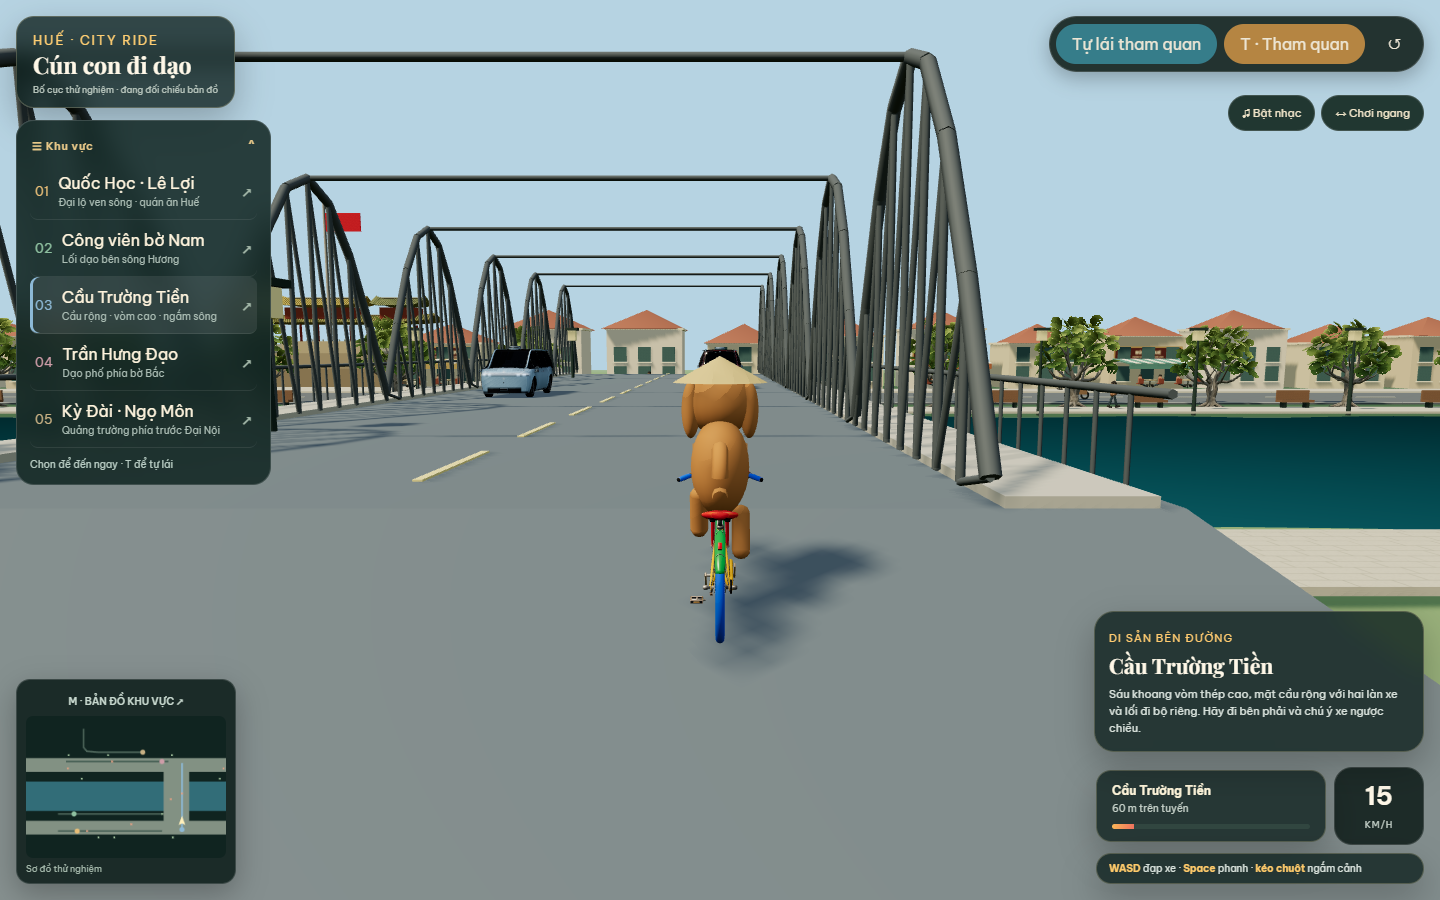
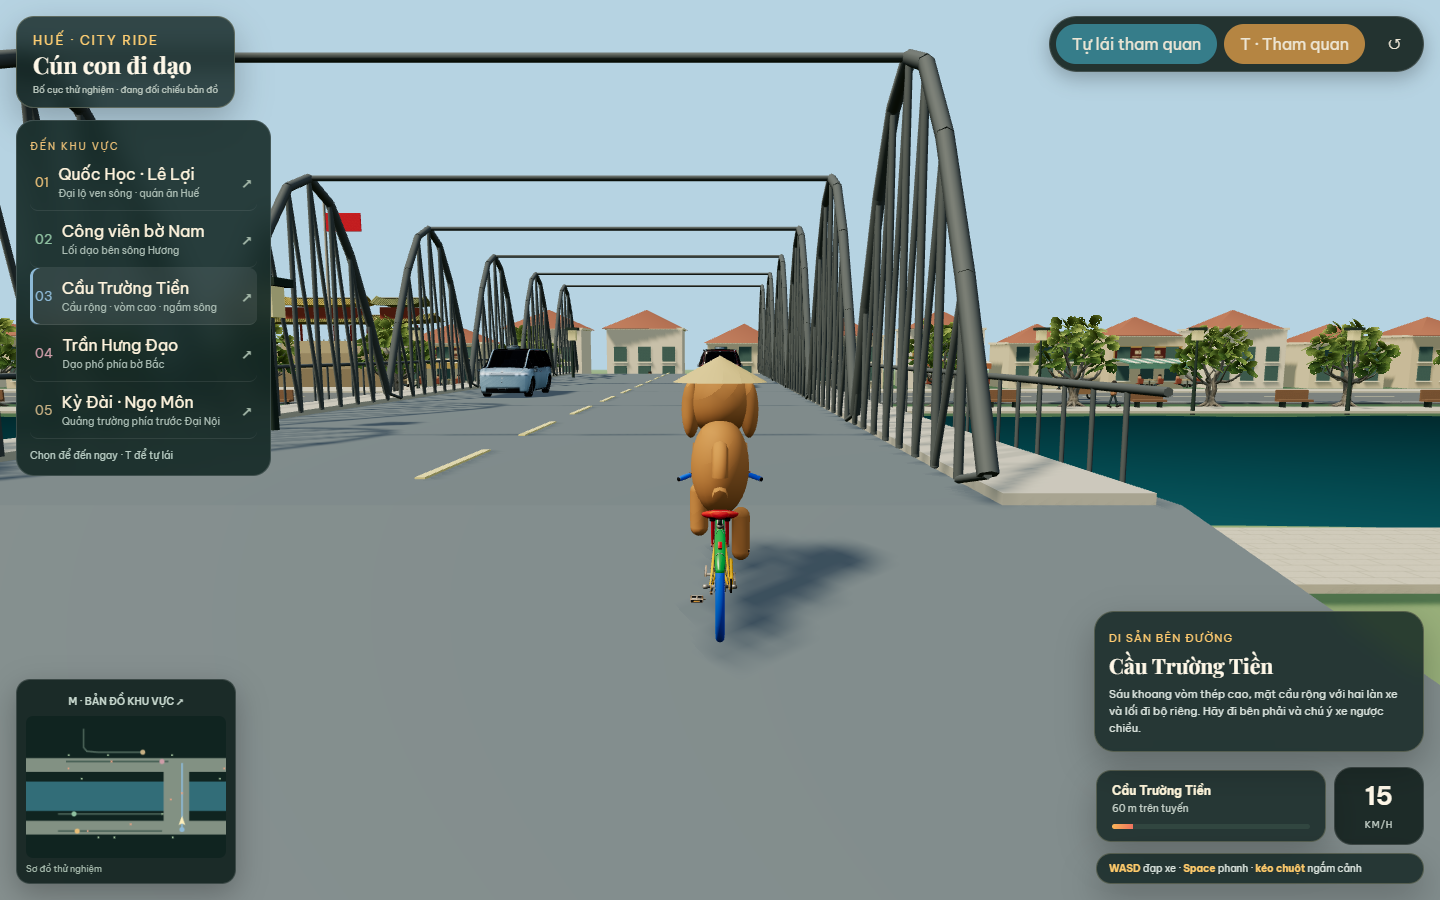
refactor: remove audio and mobile UI components
- Remove CityAudio module and related UI elements
- Revert viewport meta settings
- Update dev server configuration to host on all interfaces

diff --git a/src/styles.css b/src/styles.css
@@ -1,7 +1,6 @@
 @import url('https://fonts.googleapis.com/css2?family=Be+Vietnam+Pro:wght@400;600;700&family=Playfair+Display:wght@700&display=swap');
 
 :root { color-scheme: dark; font-family: 'Be Vietnam Pro', sans-serif; }
-[hidden]{display:none!important}
 #collision-toast{position:fixed;top:110px;left:50%;transform:translateX(-50%);z-index:15;width:min(440px,calc(100vw - 30px));padding:17px 20px;background:#562e24ee;border:1px solid #f1b772;border-radius:17px;box-shadow:0 10px 45px #4118;pointer-events:none}#collision-toast[hidden]{display:none}#collision-toast strong{color:#ffda9e;font-size:17px}#collision-toast p{font-size:13px;line-height:1.6;color:#fff0dd;margin:8px 0}#collision-toast span{font-size:10px;color:#e8c09c}
 #scene-loading{position:fixed;inset:0;background:#102522ee;z-index:20;display:grid;place-items:center;color:#f6d59b;font-size:15px}#scene-loading[hidden],#asset-notice[hidden]{display:none}#asset-notice{position:fixed;top:80px;right:20px;padding:12px;background:#493c26;color:#fff1ce;z-index:10;font-size:11px;border-radius:12px}
 * { box-sizing: border-box; }
@@ -42,11 +41,3 @@ button { font: inherit; }
 
 .hud{padding:16px;gap:12px}.brand{padding:12px 16px}.brand h1{font-size:23px}.map-note{font-size:9px;color:#bcc9c0;margin-top:7px}.tour-toolbar{display:flex;align-items:center;gap:7px;pointer-events:auto;background:#15231fe8;border:1px solid #ffffff25;border-radius:30px;padding:6px;box-shadow:0 6px 20px #0004}.tour-toolbar button{border:0;background:transparent;color:#ede6d5;border-radius:24px;padding:10px 16px;cursor:pointer}.tour-toolbar .mode-pill{background:#367d8a}.tour-toolbar button.active{background:#b58542}.destinations{width:255px;margin-top:0;align-self:start;padding:13px}.destinations button{display:flex;align-items:center;gap:9px;border-radius:8px;padding:10px 5px}.destinations button>span{flex:1}.destinations small{margin:0;color:var(--district-color)}.destinations em{display:block;font-size:10px;font-style:normal;color:#acbeb5;margin-top:3px}.destinations b{font-size:14px;color:#a4b8a9}.destinations button[aria-pressed=true]{background:#ffffff15;box-shadow:inset 3px 0 var(--district-color)}.bottom{align-items:end}.map-panel{width:220px;background:#12231feb;border:1px solid #ffffff25;pointer-events:auto;border-radius:14px;padding:9px;box-shadow:0 10px 30px #0004}.map-panel button{border:0;background:none;color:#c7d8ce;font:600 10px 'Be Vietnam Pro',sans-serif;width:100%;padding:0 0 8px;cursor:pointer}.map-panel canvas{display:block;width:100%;height:auto;border-radius:7px}.map-panel>span{display:block;font-size:9px;color:#aabeb0;margin-top:5px}.map-panel.expanded{width:min(480px,60vw)}.ride-panel{display:grid;grid-template-columns:1fr auto;gap:8px;align-items:center}.ride-panel .status{min-width:230px;font-size:12px}.ride-panel .status>div:first-of-type{font-size:10px;color:#c5d0c8;margin-top:4px}.speed{border:1px solid #ffffff25;background:#15231feb;border-radius:18px;padding:12px 18px;min-width:90px;text-align:center}.speed strong{font-size:25px;display:block}.speed span{font-size:9px;letter-spacing:.1em;color:#c5d1c9}.ride-panel .guide{grid-column:1/-1;padding:8px 12px;font-size:10px}.card{left:auto;right:16px;bottom:148px;transform:translateY(10px);width:330px;padding:14px}.card.visible{transform:translateY(0)}.card h2{font-size:21px}.card p{font-size:11px}.mobile-controls button{touch-action:none}
 @media(max-width:760px){.hud{padding:9px;gap:8px}.brand{padding:9px 11px;max-width:175px}.brand small{font-size:9px}.brand h1{font-size:17px}.map-note{font-size:8px;max-width:165px}.tour-toolbar{gap:2px;padding:4px}.tour-toolbar button{padding:9px 8px;font-size:10px;white-space:nowrap}.destinations{width:190px;padding:9px}.destinations button{font-size:11px;padding:8px 4px}.destinations em{display:none}.map-panel{width:115px}.map-panel.expanded{position:absolute;bottom:155px;left:9px;width:260px}.ride-panel{gap:5px;max-width:123px}.ride-panel .status{min-width:0;padding:9px;grid-column:1/-1;font-size:10px}.speed{grid-column:2;padding:7px 10px;min-width:60px}.speed strong{font-size:20px}.mobile-controls{position:absolute;bottom:10px;left:50%;transform:translateX(-50%);grid-template-columns:repeat(3,40px);gap:4px}.mobile-controls button{width:40px;height:40px;font-size:15px}.card{width:200px;bottom:158px;right:9px;padding:10px}.card p{display:none}.card h2{font-size:17px;margin:4px 0}.card span{font-size:9px}}
-
-.utility-toolbar{position:absolute;top:95px;right:16px;pointer-events:auto;z-index:8;width:235px}.utility-buttons{display:flex;gap:6px;justify-content:flex-end}.utility-buttons button{border:1px solid #ffffff25;border-radius:18px;background:#132820e8;color:#f1e5c9;padding:10px 13px;font-size:11px;cursor:pointer}.utility-buttons button[aria-pressed=true]{background:#76613b}.utility-buttons button:disabled{opacity:.6}#sound-settings{margin-top:7px;padding:12px;background:#132820ee;border:1px solid #ffffff25;border-radius:13px}#sound-settings label{font-size:11px;display:flex;align-items:center;gap:8px}#audio-volume{min-width:0;width:125px;accent-color:#d2b77b}#sound-location{display:block;font-size:9px;color:#bdcdbd;margin-top:8px}#audio-status{display:block;font-size:10px;line-height:1.5;color:#f2d398;margin-top:4px}#orientation-hint{position:fixed;z-index:25;bottom:22px;left:50%;transform:translateX(-50%);width:min(420px,calc(100vw - 24px));padding:16px;background:#142a26f5;border:1px solid #e4bd7c88;border-radius:17px;box-shadow:0 10px 50px #0008}#orientation-hint p{font-size:13px;line-height:1.6;margin:0 0 12px}#orientation-hint button{border:0;border-radius:16px;padding:8px 16px;background:#a68b55;color:#fff9e9;cursor:pointer}#toggle-districts{border:0;font-size:11px;letter-spacing:.06em;padding:4px 2px 10px;font-weight:600;color:#e9c989;justify-content:space-between}#toggle-districts span{flex:0}#toggle-districts[aria-expanded=false]{padding-bottom:4px}#toggle-districts[aria-expanded=true] span{transform:rotate(180deg)}#district-list{max-height:55dvh;overflow:auto;overscroll-behavior:contain}
-@media(max-width:760px),(max-height:500px){
-  .destinations{position:absolute;left:9px;top:105px;width:145px;padding:10px;z-index:10}.destinations:has(#toggle-districts[aria-expanded=true]){width:215px}#toggle-districts{min-height:26px;padding:2px;font-size:11px}.destinations #district-list{max-height:calc(100dvh - 280px);margin-top:7px}.destinations button[data-district]{min-height:42px;padding:9px 4px;font-size:11px}.destinations em,.destinations p{display:none}.utility-toolbar{top:61px;right:9px;width:178px}.utility-buttons{gap:5px}.utility-buttons button{padding:9px 8px;font-size:10px;white-space:nowrap}#sound-settings{padding:9px}#sound-settings label{font-size:10px}#audio-volume{width:95px}.hud{padding-bottom:max(10px,env(safe-area-inset-bottom))}.mobile-controls{bottom:max(10px,env(safe-area-inset-bottom))}
-}
-@media(orientation:landscape) and (max-height:500px){
-  .hud{padding:8px 12px}.brand{padding:8px 11px;max-width:200px}.brand small,.brand .map-note{display:none}.brand h1{font-size:18px}.tour-toolbar button{padding:9px 13px;font-size:11px}.utility-toolbar{top:59px;right:12px;width:205px}.destinations{top:59px;left:12px;width:145px}.destinations #district-list{max-height:calc(100dvh - 125px)}.destinations:has(#toggle-districts[aria-expanded=true]){width:235px}.map-panel{width:128px}.map-panel.expanded{position:absolute;left:12px;bottom:12px;width:280px}.map-panel>span{display:none}.ride-panel{position:absolute;right:170px;bottom:12px;max-width:210px;grid-template-columns:1fr auto;gap:6px}.ride-panel .status{min-width:130px;font-size:10px;padding:10px;grid-column:auto}.ride-panel .guide{display:none}.speed{padding:8px 10px;min-width:60px;grid-column:auto}.speed strong{font-size:21px}.mobile-controls{display:grid;position:absolute;left:auto;right:16px;bottom:max(12px,env(safe-area-inset-bottom));transform:none;grid-template-columns:repeat(3,40px);gap:4px}.mobile-controls button{width:40px;height:40px;font-size:16px}.mobile-controls [data-key="w"]{grid-column:2}.mobile-controls [data-key="a"]{grid-column:1}.mobile-controls [data-key="s"]{grid-column:2}.mobile-controls [data-key="d"]{grid-column:3}.card{bottom:110px;right:16px;width:230px;padding:10px}.card p{display:none}.card h2{font-size:17px}.card span{font-size:9px}#collision-toast{top:65px;padding:12px 16px;width:min(380px,calc(100vw - 30px))}#collision-toast strong{font-size:14px}#collision-toast p{font-size:11px}#orientation-hint{bottom:12px}
-}

diff --git a/src/main.js b/src/main.js
@@ -1,7 +1,6 @@
 import './styles.css';
 import { CityGame as Game } from './core/CityGame.js';
 import { districts } from './routes/districts.js';
-import {initializeMobileUI,initializeAudioUI} from './ui/MobileUI.js';
 
 document.querySelector('#app').innerHTML = `
   <canvas id="game"></canvas>
@@ -12,15 +11,13 @@ document.querySelector('#app').innerHTML = `
       <div class="brand"><small>Huế · City Ride</small><h1>Cún con đi dạo</h1><div class="map-note">Bố cục thử nghiệm · đang đối chiếu bản đồ</div></div>
       <div class="tour-toolbar"><button id="free-roam" class="mode-pill"><span id="mode-label">Đạp tự do</span></button><button id="autopilot">T · Tham quan</button><button id="reset" title="Về đầu khu vực [R]">↺</button></div>
     </div>
-    <nav class="destinations" aria-label="Chọn khu vực"><button id="toggle-districts" aria-expanded="true" aria-controls="district-list">☰ Khu vực <span aria-hidden="true">⌄</span></button><div id="district-list">${districts.map((p,i)=>`<button data-district="${p.id}" aria-pressed="false" style="--district-color:${p.color}"><small>0${i+1}</small><span>${p.title}<em>${p.subtitle}</em></span><b>↗</b></button>`).join('')}<p>Chọn để đến ngay · T để tự lái</p></div></nav>
-    <div class="utility-toolbar"><div class="utility-buttons"><button id="audio-toggle" aria-pressed="false">♫ Bật nhạc</button><button id="landscape-toggle" aria-pressed="false">↔ Chơi ngang</button></div><div id="sound-settings" hidden><label>Âm lượng <input id="audio-volume" type="range" min="0" max="100" value="45" aria-label="Âm lượng game"></label><span id="sound-location">Giai điệu bên sông Hương</span></div><span id="audio-status" role="status"></span></div>
+    <nav class="destinations" aria-label="Chọn khu vực"><span>ĐẾN KHU VỰC</span>${districts.map((p,i)=>`<button data-district="${p.id}" aria-pressed="false" style="--district-color:${p.color}"><small>0${i+1}</small><span>${p.title}<em>${p.subtitle}</em></span><b>↗</b></button>`).join('')}<p>Chọn để đến ngay · T để tự lái</p></nav>
     <div class="bottom">
       <section class="map-panel" id="map-panel"><button id="expand-map" title="Mở rộng bản đồ [M]">M · BẢN ĐỒ KHU VỰC ↗</button><canvas id="minimap" width="240" height="170" aria-label="Sơ đồ tuyến và vị trí xe"></canvas><span>Sơ đồ thử nghiệm</span></section>
       <div class="mobile-controls"><button data-key="w" aria-label="Đạp tới">▲</button><button data-key="a" aria-label="Rẽ trái">◀</button><button data-key="s" aria-label="Lùi">▼</button><button data-key="d" aria-label="Rẽ phải">▶</button><button data-key=" " aria-label="Phanh">■</button></div>
       <div class="ride-panel"><div class="status"><strong id="destination">Quốc Học · Lê Lợi</strong><div id="distance">Tự do khám phá</div><div class="progress"><i id="progress"></i></div></div><div class="speed"><strong id="speed">0</strong><span>KM/H</span></div><div class="guide"><b>WASD</b> đạp xe · <b>Space</b> phanh · <b>kéo chuột</b> ngắm cảnh</div></div>
     </div>
   </div>
-  <aside id="orientation-hint" role="status" hidden><p id="orientation-message"></p><button id="dismiss-orientation">Đã hiểu</button></aside>
   <article class="card" id="landmark-card"><span>Di sản bên đường</span><h2></h2><p></p></article>`;
 
 export const game = new Game(document.querySelector('#game'));
@@ -30,4 +27,3 @@ document.querySelector('#free-roam').addEventListener('click', () => {game.auto=
 document.querySelector('#reset').addEventListener('click', () => game.reset());
 document.querySelectorAll('[data-district]').forEach(button=>button.addEventListener('click',()=>game.travelTo(button.dataset.district)));
 document.querySelector('#expand-map').addEventListener('click',()=>document.querySelector('#map-panel').classList.toggle('expanded'));
-initializeMobileUI();initializeAudioUI(game.audio);

diff --git a/src/core/CityGame.js b/src/core/CityGame.js
@@ -6,11 +6,10 @@ import {districts,getDistrict} from '../routes/districts.js';
 import {damp,wrapAngle} from '../vehicle/BicycleMotion.js';
 import {TrafficSystem} from '../traffic/TrafficSystem.js';
 import {CITY,BRIDGE} from '../world/cityLayout.js';
-import {CityAudio} from '../audio/CityAudio.js';
 
 export class CityGame {
   constructor(canvas){
-    this.audio=new CityAudio();this.scene=new THREE.Scene();this.camera=new THREE.PerspectiveCamera(57,innerWidth/innerHeight,.1,450);
+    this.scene=new THREE.Scene();this.camera=new THREE.PerspectiveCamera(57,innerWidth/innerHeight,.1,450);
     this.renderer=new THREE.WebGLRenderer({canvas,antialias:true});this.renderer.setPixelRatio(Math.min(devicePixelRatio,1.6));this.renderer.setSize(innerWidth,innerHeight);
     this.renderer.toneMapping=THREE.ACESFilmicToneMapping;this.renderer.toneMappingExposure=1.05;this.renderer.shadowMap.enabled=true;this.renderer.shadowMap.type=THREE.PCFSoftShadowMap;
     this.input=new InputController(canvas);this.world=new HueWorld(this.scene);this.world.build();this.scene.traverse(object=>{if(object.isSprite)object.visible=false;});this.bike=new TouringBike();this.scene.add(this.bike);this.traffic=new TrafficSystem(this.scene,this.world);this.collisionCooldown=0;this.stun=0;this.crashCount=0;this.noticeTime=0;
@@ -65,12 +64,11 @@ export class CityGame {
     const label=actor.type==='car'?'ô tô':actor.type==='scooter'?'xe máy':'người đi bộ';const headOn=Math.cos(this.bike.motion.heading-actor.heading)<-.4;
     document.querySelector('#collision-message').textContent=`${headOn?'Bạn đã đi đối đầu và va chạm với':'Bạn vừa va chạm với'} ${label}. Hãy cẩn thận hơn, đi bên phải, giảm tốc và quan sát phía trước!`;
     document.querySelector('#collision-toast').hidden=false;
-    this.audio.collision();
   }
   frame(){
     const dt=Math.min(this.clock.getDelta(),.1);this.elapsed+=dt;this.accumulator+=dt;
     while(this.accumulator>=1/120){this.step(1/120);this.accumulator-=1/120;}
-    this.world.update(this.elapsed);if(this.impact.visible){const age=1-this.stun;this.impact.scale.setScalar(1+age*1.4);this.impact.children.forEach(mesh=>mesh.material.opacity=Math.max(0,1-age));if(this.stun===0)this.impact.visible=false;}this.updateCamera(dt);this.audio.update(this.bike,this.traffic.actors,this.cameraYaw+this.input.drag.yaw);this.updateHud();this.drawMap();this.renderer.render(this.scene,this.camera);
+    this.world.update(this.elapsed);if(this.impact.visible){const age=1-this.stun;this.impact.scale.setScalar(1+age*1.4);this.impact.children.forEach(mesh=>mesh.material.opacity=Math.max(0,1-age));if(this.stun===0)this.impact.visible=false;}this.updateCamera(dt);this.updateHud();this.drawMap();this.renderer.render(this.scene,this.camera);
   }
   updateCamera(dt){
     this.cameraYaw+=wrapAngle(this.bike.motion.heading-this.cameraYaw)*(1-Math.exp(-7.5*dt));
@@ -82,7 +80,6 @@ export class CityGame {
   }
   updateHud(){
     this.hud.district.textContent=this.district.title;this.hud.speed.textContent=Math.round(Math.abs(this.bike.motion.speed)*3.6);this.hud.distance.textContent=this.completed?'Đã hoàn thành tuyến':this.auto?`${Math.round((1-this.routeU)*this.routeLength)} m trên tuyến`:'Tự do khám phá';this.hud.progress.style.width=`${this.completed?100:this.routeU*100}%`;
-    const soundLocation=document.querySelector('#sound-location');if(soundLocation)soundLocation.textContent=this.audio.venueLevel>.07?`Nhạc ven quán · ${this.audio.nearbyVenue.title}`:'Giai điệu bên sông Hương';
     let near=null,distance=Infinity;for(const lm of this.world.landmarks.values()){const d=Math.hypot(lm.position.x-this.bike.position.x,lm.position.z-this.bike.position.z);if(d<distance&&d<lm.radius){distance=d;near=lm;}}
     this.hud.card.classList.toggle('visible',!!near);if(near){this.hud.card.querySelector('h2').textContent=near.title;this.hud.card.querySelector('p').textContent=near.description;}
   }

diff --git a/src/world/StreetLife.js b/src/world/StreetLife.js
@@ -1,12 +1,13 @@
 import * as THREE from 'three';
 import {box,mat} from '../landmarks/shared.js';
 import {makePerson} from './People.js';
-import {restaurantZones} from './streetVenues.js';
 
 function sign(text){const canvas=document.createElement('canvas');canvas.width=768;canvas.height=160;const ctx=canvas.getContext('2d');ctx.fillStyle='#602e24';ctx.fillRect(0,0,768,160);ctx.strokeStyle='#e1bd6d';ctx.lineWidth=8;ctx.strokeRect(8,8,752,144);ctx.fillStyle='#ffedbf';ctx.font='bold 45px sans-serif';ctx.textAlign='center';ctx.fillText(text,384,85);ctx.font='19px sans-serif';ctx.fillText('HƯƠNG VỊ HUẾ · MỜI BẠN GHÉ CHƠI',384,125);const texture=new THREE.CanvasTexture(canvas);texture.colorSpace=THREE.SRGBColorSpace;const mesh=new THREE.Mesh(new THREE.PlaneGeometry(6.8,1.4),new THREE.MeshStandardMaterial({map:texture,roughness:.8,side:THREE.DoubleSide}));mesh.position.set(0,3.25,.05);return mesh;}
 export function addStreetLife(scene,obstacles){
-  for(const [index,venue]of restaurantZones.entries()){
-    const {x,side,title}=venue,group=new THREE.Group(),color=['#b06a42','#5f8a78','#b99959'][index%3];group.add(sign(title.toLocaleUpperCase('vi-VN')));
+  const names=['BÚN BÒ HUẾ','CƠM HẾN','CÀ PHÊ SÔNG HƯƠNG','NHÀ HÀNG AN NHIÊN'];
+  const xs=[-105,-85,-15,35,55,95];
+  for(const side of [-1,1])for(let index=0;index<xs.length;index++){
+    const x=xs[index],group=new THREE.Group(),color=['#b06a42','#5f8a78','#b99959'][index%3];group.add(sign(names[index%names.length]));
     for(let stripe=0;stripe<12;stripe++){const awning=box([.58,.1,3.5],stripe%2?'#e6d8b7':color,[-3.2+stripe*.58,2.5,1.7]);awning.rotation.x=.12;group.add(awning);}
     group.add(box([6.8,.5,.15],color,[0,2.05,3.4]));
     for(const tx of [-1.8,1.8]){

diff --git a/index.html b/index.html
@@ -2,7 +2,7 @@
 <html lang="vi">
   <head>
     <meta charset="UTF-8" />
-    <meta name="viewport" content="width=device-width, initial-scale=1.0, viewport-fit=cover" />
+    <meta name="viewport" content="width=device-width, initial-scale=1.0" />
     <meta name="theme-color" content="#132724" />
     <title>Cún con đi dạo Huế</title>
   </head>

diff --git a/vite.config.js b/vite.config.js
@@ -1,4 +1,9 @@
 import {defineConfig} from 'vite';
 export default defineConfig({
-  server:{watch:{ignored:['**/tool/**','**/dist/**']}},
+  server:{
+    host:'0.0.0.0',
+    port:3000,
+    allowedHosts:true,
+    watch:{ignored:['**/tool/**','**/dist/**']}
+  },
 });

diff --git a/PLAN.md b/PLAN.md
@@ -1,9 +1,5 @@
 # Plan
 
-## Mobile gọn và âm thanh — 2026-11-17
-
-Người dùng yêu cầu trực tiếp thu gọn danh sách khu vực, tùy chọn chơi ngang, nhạc thơ mộng và hiệu ứng xe/va chạm, nhạc khi đi qua quán. Đã triển khai MobileUI, CityAudio/music/spatial, chia sẻ vị trí quán qua streetVenues. Nhạc là bản tổng hợp ngũ cung mới lấy cảm hứng Huế. Kiểm chứng 12 unit test và browser audio/menu/landscape/fallback; 5 tour và thao tác cũ vẫn đạt. Khóa ngang thực tế tùy trình duyệt và chưa thử trên máy điện thoại vật lý.
-
 ## Mở rộng cầu/đường và sinh hoạt đô thị — 2026-11-17
 
 Người dùng xác nhận trực tiếp 5 hạng mục: cầu lớn/rộng/cao, đường rộng, quán ăn/nhà hàng nhộn nhịp, NPC người/ô tô/xe máy, hiệu ứng tông xe và cảnh báo. Đã triển khai trong các module cityLayout, StreetLife, People, TrafficSystem và collision; giữ nội dung kiến trúc landmark độc lập. Đã chạy 9 unit test và browser test va chạm/phục hồi, desktop/mobile, 5 tour có giao thông. Phạm vi gameplay này hoàn thành; yêu cầu bản đồ thật toàn bộ Huế vẫn còn.
